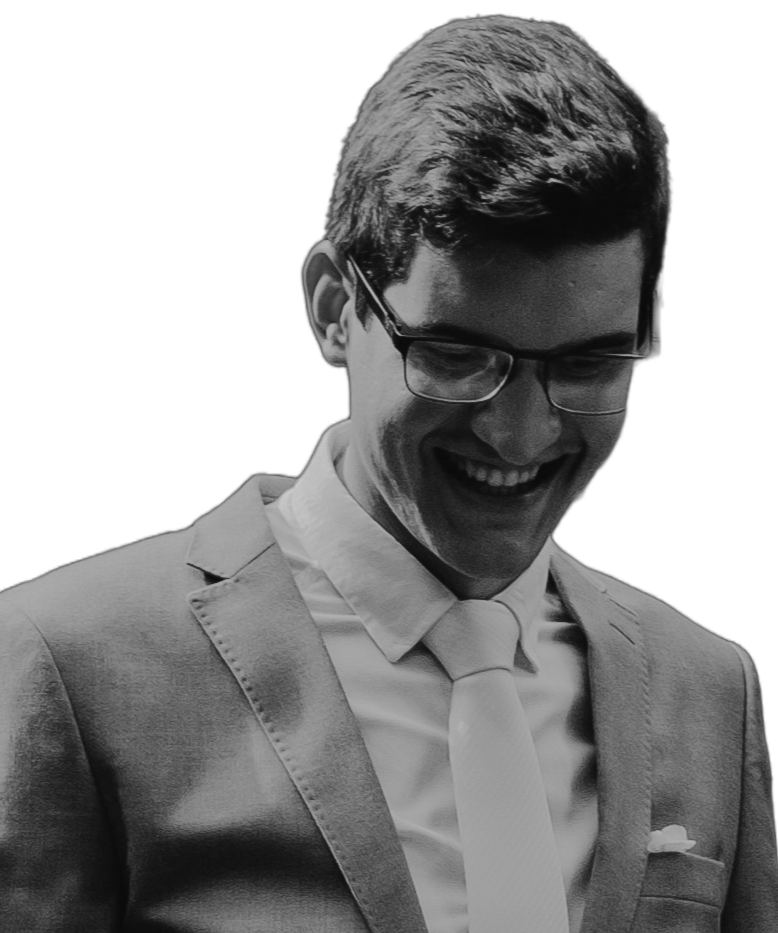
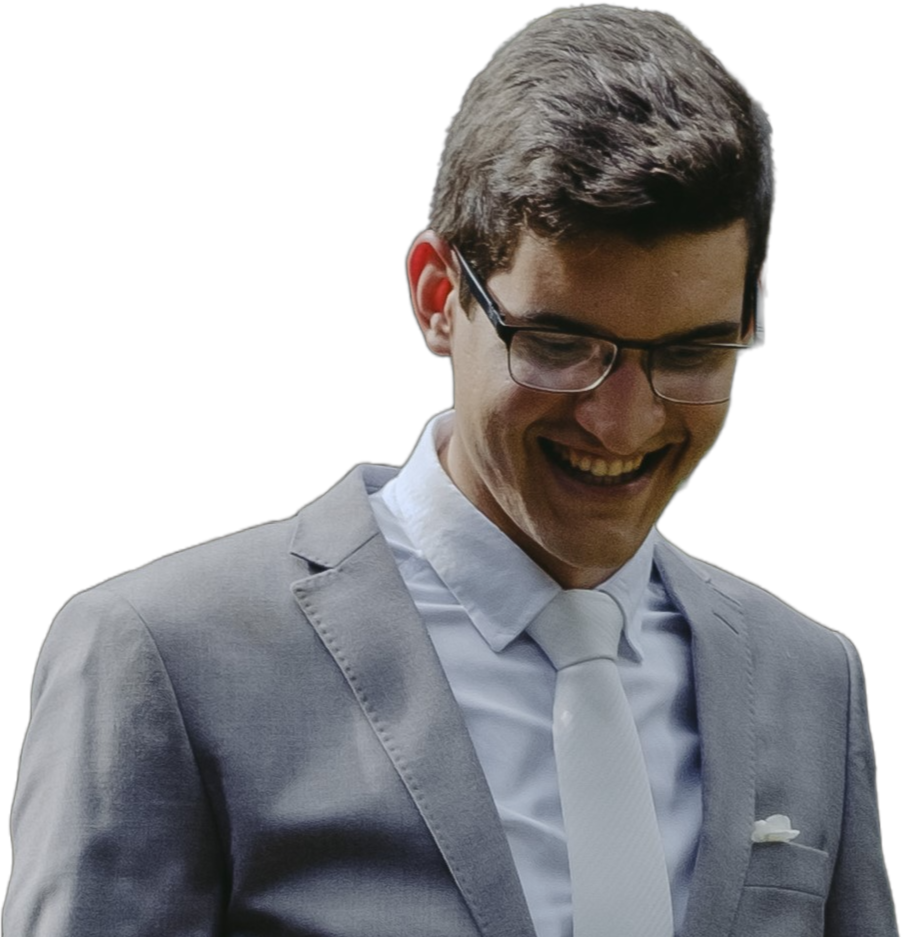
responsiveness, smoth scroll, button scroll top

diff --git a/components/Experience/Experience.jsx b/components/Experience/Experience.jsx
@@ -35,15 +35,15 @@ const Experience = () => {
   return (
     <section
       id="experiencia"
-      className="grid grid-cols-3 gap-36 my-36 max-w-screen-xl mx-auto px-10"
+      className="lg:grid lg:grid-cols-3 lg:gap-36 lg:my-36 my-20 max-w-screen-xl mx-auto px-10 md:px-122"
       aria-label="Experience"
     >
-      <span className="col-span-1 text-[9rem] leading-[1] font-bold break-all text-zinc-200 max-w-sm">
+      <span className="md:col-span-1 block mb-8 lg:mb-0 text-4xl lg:text-[9rem] lg:leading-[1] font-bold lg:break-all lg:text-zinc-200 max-w-sm">
         EXPERIENCE
       </span>
-      <div className="col-span-2 ml-10">
+      <div className="col-span-2 lg:ml-10">
         <div className="">
-          <p className="text-3xl text-zinc-700 max-w-2xl">
+          <p className="text-xl md:text-3xl text-zinc-700 max-w-2xl">
             I have been working as a Front-End Developer since may 2021 on small
             projects and as an employee at a few companies, using{' '}
             <span className="font-bold">
@@ -60,15 +60,17 @@ const Experience = () => {
                 className="grid-flow-col auto-cols-max gap-1 mt-10 detail-2"
               >
                 <span className="mt-8 text-sm text-zinc-700">{date}</span>
-                <div className="p-7 bg-zinc-50 grid grid-cols-2 rounded gap-20 border-2 border-zinc-100 max-w-[750px]">
+                <div className="p-7 bg-zinc-50 sm:grid sm:grid-cols-2 rounded sm:gap-8 md:gap-20 border-2 border-zinc-100 lg:max-w-[750px]">
                   <div>
                     <h2 className="text-lg font-bold mb-2">{company}</h2>
-                    <p className="max-w-sm text-sm text-zinc-700">
+                    <p className="sm:max-w-sm text-sm text-zinc-700">
                       {jobDescription}
                     </p>
                   </div>
                   <div>
-                    <h2 className="text-lg font-bold mb-2">{role}</h2>
+                    <h2 className="text-lg font-bold mb-2 mt-4 sm:mt-0">
+                      {role}
+                    </h2>
                     <div className="flex flex-wrap gap-2">
                       {competences.map((competence) => (
                         <span

diff --git a/components/Academic/Academic.jsx b/components/Academic/Academic.jsx
@@ -70,22 +70,22 @@ const languages = [
 
 const Academic = () => {
   return (
-    <div className="bg-zinc-900">
+    <div className="bg-zinc-900 py-10">
       <section
         id="formacao"
         aria-label="Formação"
-        className="grid grid-cols-3 gap-28 py-36 max-w-screen-xl mx-auto px-10"
+        className="lg:grid lg:grid-cols-3 lg:gap-32 lg:my-36 max-w-screen-xl mx-auto px-10 md:px-12"
       >
-        <span className="col-span-1 text-[9rem] leading-[1] font-bold break-all max-w-sm">
+        <span className="text-white lg:text-black pt-10 lg:pt-0 md:col-span-1 block mb-8 lg:mb-0 text-4xl lg:text-[9rem] lg:leading-[1] font-bold lg:break-all max-w-sm">
           ACADEMIC
         </span>
-        <div className="ml-14 col-span-2 text-white">
+        <div className="lg:ml-14 col-span-2 text-white">
           <p className="text-2xl text-zinc-300 max-w-xl mb-16">
             My most recent academic experience is a degree in{' '}
             <span>Analysis and Systems Development</span>. Additionally, I
             always stay updated with intensive online courses.
           </p>
-          <div className="flex flex-wrap gap-8">
+          <div className="flex flex-wrap justify-center sm:justify-start gap-8">
             {academics.map(({ id, title, degree, institution }) => (
               <div
                 key={id}
@@ -98,7 +98,7 @@ const Academic = () => {
             ))}
           </div>
 
-          <div>
+          <div className="px-12 lg:px-0">
             <div className="">
               <div className="flex gap-5 items-center mt-10">
                 <Image
@@ -117,10 +117,10 @@ const Academic = () => {
                   {courses.map(({ id, title, hours }) => (
                     <div
                       key={id}
-                      className="flex justify-between px-1 py-2 text-xl"
+                      className="flex items-center justify-between px-1 py-2 text-xl"
                     >
                       <p>{title}</p>
-                      <span className="text-zinc-400">{hours}</span>
+                      <span className="text-zinc-400 pl-2">{hours}</span>
                     </div>
                   ))}
                 </div>

diff --git a/components/Header/Header.jsx b/components/Header/Header.jsx
@@ -1,26 +1,50 @@
+'use client';
+
 import Link from 'next/link';
 import React from 'react';
 
 const Header = () => {
+  const smoothScroll = (e) => {
+    e.preventDefault();
+    const anchor = e.target.hash;
+    document.querySelector(anchor).scrollIntoView({
+      behavior: 'smooth',
+    });
+  };
+
   return (
-    <header className="flex justify-between items-center mt-11 max-w-screen-xl mx-auto px-10">
-      <Link className="text-4xl font-bold px-5 py-3" href="/">
-        Felippe Vieira
-      </Link>
+    <header className="md:flex md:justify-between items-center mt-11 max-w-screen-xl mx-auto x-10 md:px-12">
+      <div className="flex justify-center">
+        <Link className="text-4xl font-bold px-5 py-3" href="/">
+          Felippe Vieira
+        </Link>
+      </div>
       <nav>
-        <ul className="flex gap-5 text-lg">
+        <ul className="flex flex-wrap gap-5 text-lg justify-center mt-5 md:mt-0">
           <li>
-            <a className="px-5 py-3" href="#experiencia">
+            <a
+              className="bg-zinc-100 rounded md:bg-transparent px-5 py-3 inline-block"
+              href="#experiencia"
+              onClick={smoothScroll}
+            >
               Experience
             </a>
           </li>
           <li>
-            <a className="px-5 py-3" href="#formacao">
+            <a
+              className="bg-zinc-100 rounded md:bg-transparent px-5 py-3 inline-block"
+              href="#formacao"
+              onClick={smoothScroll}
+            >
               Academic
             </a>
           </li>
           <li>
-            <a className="px-5 py-3" href="#contato">
+            <a
+              className="bg-zinc-100 rounded md:bg-transparent px-5 py-3 inline-block"
+              href="#contato"
+              onClick={smoothScroll}
+            >
               Contact
             </a>
           </li>

diff --git a/components/Footer/Footer.jsx b/components/Footer/Footer.jsx
@@ -2,19 +2,38 @@ import React from 'react';
 
 const Footer = () => {
   return (
-    <div id="contato" className="bg-black text-white" aria-label="Contato">
-      <footer className="py-36 px-10 max-w-screen-xl mx-auto detail-4">
-        <div className="grid grid-cols-3 gap-24 auto-cols-max items-center">
+    <div
+      id="contato"
+      className="bg-black py-10 md:py-0 text-white"
+      aria-label="Contato"
+    >
+      <footer className="lg:py-36 py-16 max-w-screen-xl mx-auto detail-4 px-10 md:px-12">
+        <div className="lg:grid lg:grid-cols-3 gap-24 auto-cols-max items-center">
           <div className="col-span-1 max-w-[520px] text-zinc-200 text-2xl">
-            <p>
+            <p className="mb-10 lg:mb-0">
               I am available for new projects at the moment. Get in touch with
               me and we will schedule a meeting.
             </p>
           </div>
-          <div className="col-span-2 text-2xl font-bold">
-            <h2>felippe.nvieira@gmail.com</h2>
-            <h2>+55 21 9999-9999</h2>
-            <h2>@origamid.cursos</h2>
+          <div className="grid gap-4 col-span-2 text-3xl font-bold pt-8 md:pt-0">
+            <h2>
+              <a
+                className="px-5 py-3 hover:animate-pulse"
+                target="blank"
+                href="https://github.com/felippenvieira"
+              >
+                GitHub →
+              </a>
+            </h2>
+            <h2>
+              <a
+                className="px-5 py-3 hover:animate-pulse"
+                target="blank"
+                href="https://www.linkedin.com/in/felippe-vieira-3bb8bb113/"
+              >
+                Linkedin →
+              </a>
+            </h2>
           </div>
         </div>
         <p className="text-zinc-500 mt-10 text-xl">

diff --git a/components/MainFrame/MainFrame.jsx b/components/MainFrame/MainFrame.jsx
@@ -3,16 +3,19 @@ import React from 'react';
 
 const MainFrame = () => {
   return (
-    <section className="grid grid-cols-3 gap-36 my-36 max-w-screen-xl mx-auto px-10">
-      <Image
-        src="/assets/perfil2.png"
-        width={360}
-        height={360}
-        alt="Lobo"
-        className="max-w-sm col-span-1"
-      />
-      <div className="col-span-2 ml-10 justify-self-stretch flex flex-col self-center">
-        <h1 className="text-8xl font-bold max-w-lg detail">
+    <section className="grid grid-cols-3 gap-10 md:my-36 my-14 max-w-screen-xl mx-auto px-10 md:px-12">
+      <div>
+        <Image
+          src="/assets/perfil2.png"
+          width={450}
+          height={450}
+          alt="Lobo"
+          priority
+          className="hidden sm:grid md:col-span-1 md:self-center"
+        />
+      </div>
+      <div className="col-span-3 sm:col-span-2 ml-4 lg:ml-20 flex flex-col md:items-start self-center">
+        <h1 className="text-6xl sm:text-7xl md:text-8xl font-bold max-w-lg detail">
           Front-End Developer
         </h1>
         <p className="text-2xl mt-5">Brazil 📍</p>

diff --git a/components/ScrollToTop/ScrollToTop.jsx b/components/ScrollToTop/ScrollToTop.jsx
@@ -1,0 +1,20 @@
+'use client';
+
+import React from 'react';
+
+const ScrollToTop = () => {
+  const scrollTop = () => {
+    window.scrollTo({ top: 0, behavior: 'smooth' });
+  };
+
+  return (
+    <div
+      className="rounded-full w-10 h-10 fixed bg-white border-black bottom-10 right-10 flex items-center font-bold justify-center hover:cursor-pointer"
+      onClick={scrollTop}
+    >
+      ↑
+    </div>
+  );
+};
+
+export default ScrollToTop;

diff --git a/app/page.js b/app/page.js
@@ -1,3 +1,4 @@
+import ScrollToTop from '@/components/ScrollToTop/ScrollToTop';
 import {
   Academic,
   Experience,
@@ -14,6 +15,7 @@ export default function Home() {
       <Experience />
       <Academic />
       <Footer />
+      <ScrollToTop />
     </main>
   );
 }

diff --git a/app/globals.css b/app/globals.css
@@ -56,3 +56,17 @@
   position: absolute;
   top: -60px;
 }
+
+@media (max-width: 768px) {
+  .detail::before,
+  .detail-2::before,
+  .detail-3::before {
+    display: none;
+  }
+}
+
+@media (max-width: 1024px) {
+  .detail-4::before {
+    display: none;
+  }
+}
